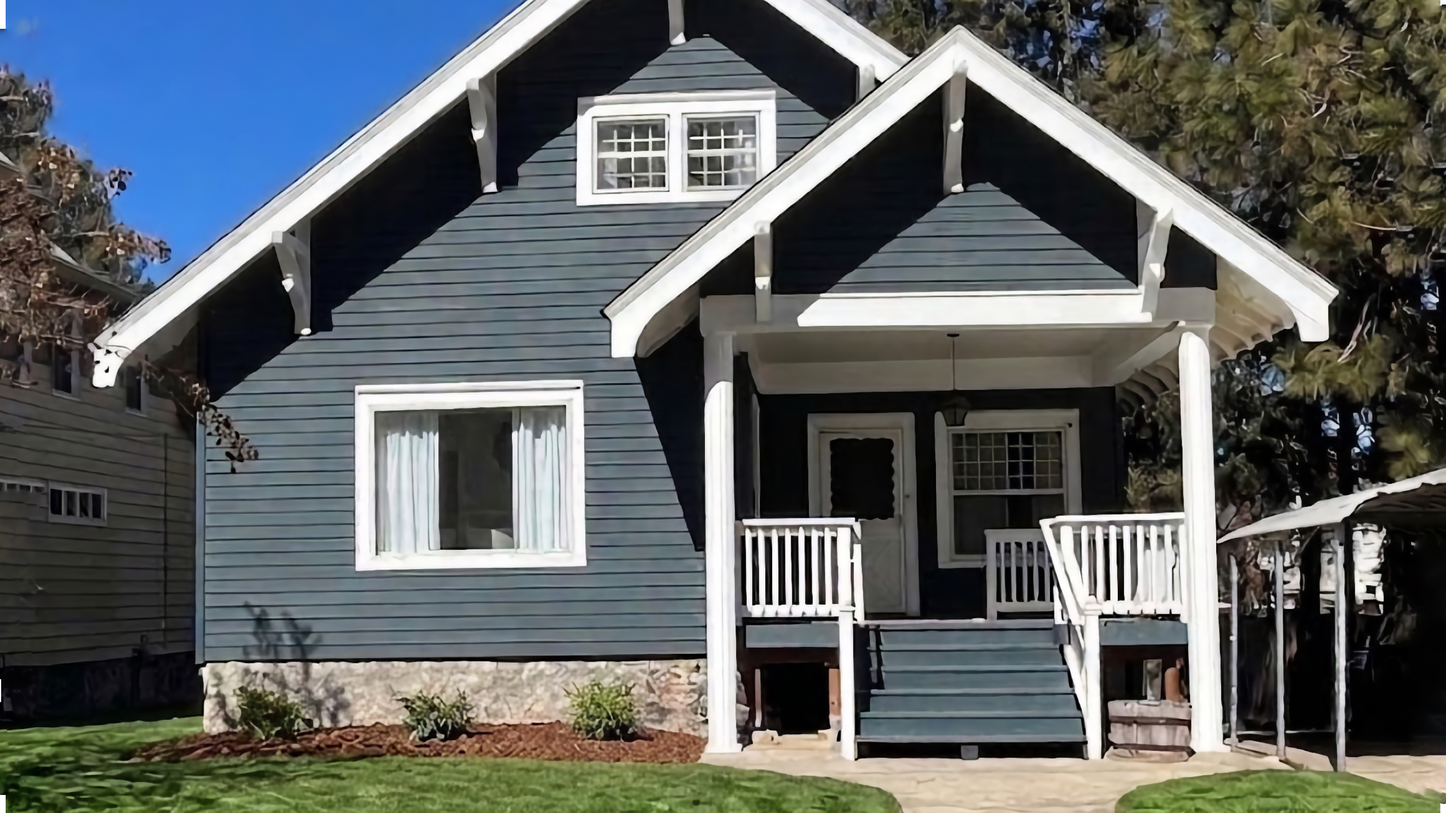
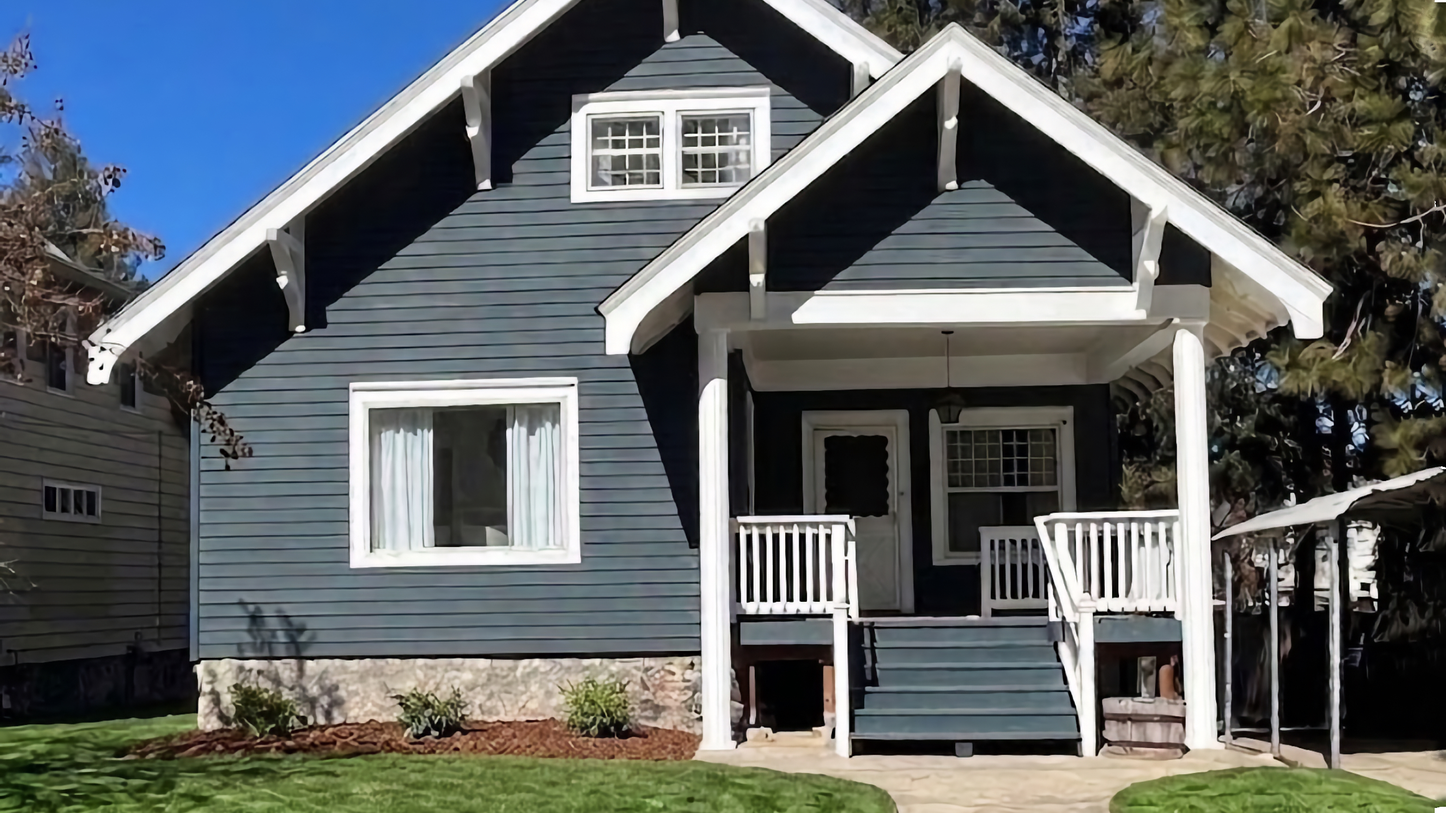
Hero: home3 photo + height tracks image aspect so full photo always shows
min(100vh, 56.25vw) eliminates cover-crop 'zoom' on desktop — the hero
displays the entire 16:9 image at any window shape.

diff --git a/app/globals.css b/app/globals.css
@@ -41,7 +41,9 @@ body { background: var(--ink); color: var(--cream); font-family: 'Jost', sans-se
 .nav-mobile-book:hover { background: var(--sand); color: var(--ink); }
 
 /* ── HERO ────────────────────────────────────────── */
-#hero { position: relative; height: 100vh; min-height: 640px; display: flex; align-items: flex-end; padding-bottom: 80px; overflow: hidden; }
+/* Height tracks the 16:9 hero photo (56.25vw) so the full image is always
+   visible — no cover-cropping "zoom" on desktop, whatever the window shape. */
+#hero { position: relative; height: min(100vh, 56.25vw); min-height: 640px; display: flex; align-items: flex-end; padding-bottom: 80px; overflow: hidden; }
 .hero-bg { position: absolute; inset: 0; background: var(--ink); background-size: cover; background-position: center; }
 .hero-content { position: relative; z-index: 2; padding: 0 72px; max-width: 860px; }
 .hero-eyebrow { font-size: 11px; font-weight: 500; letter-spacing: 0.22em; text-transform: uppercase; color: var(--sand); margin-bottom: 22px; display: flex; align-items: center; gap: 14px; }
